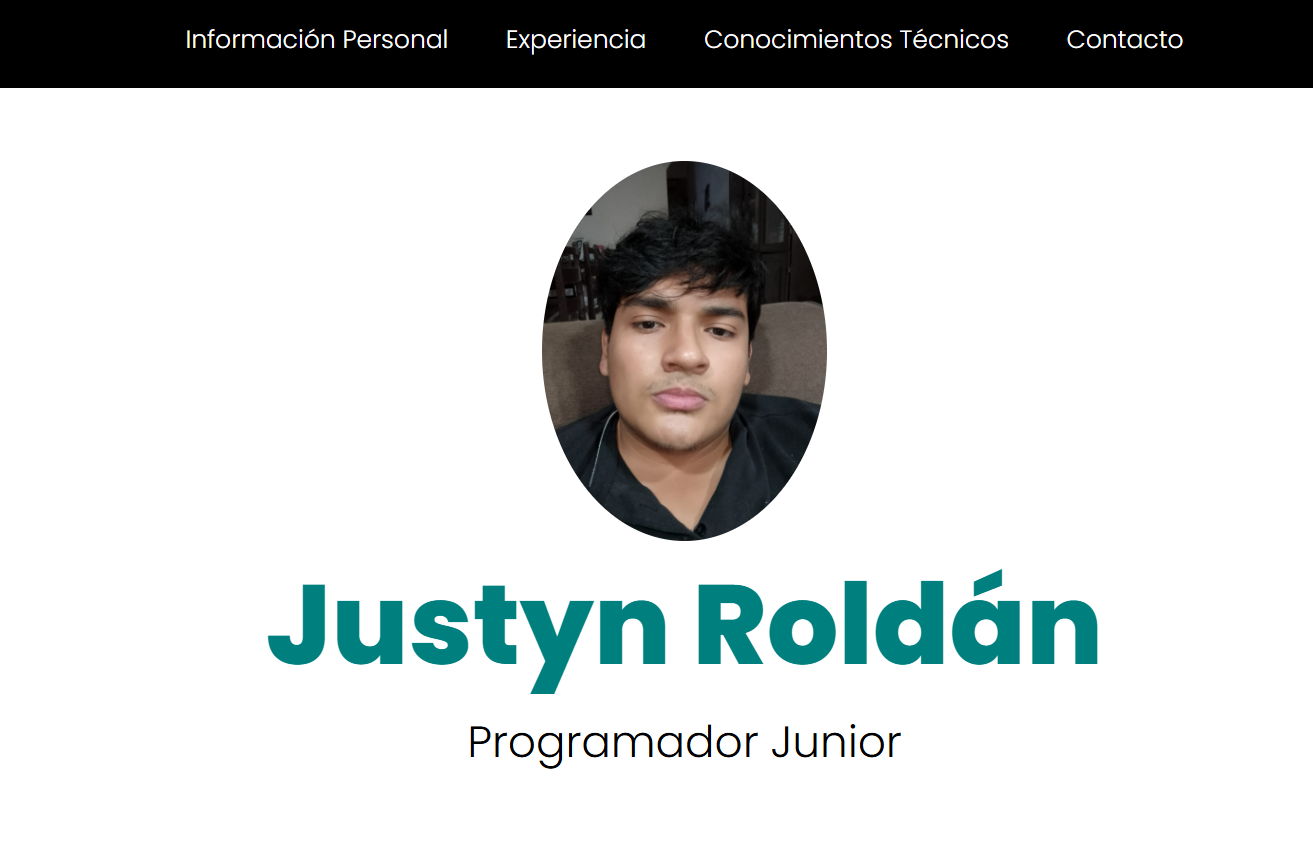
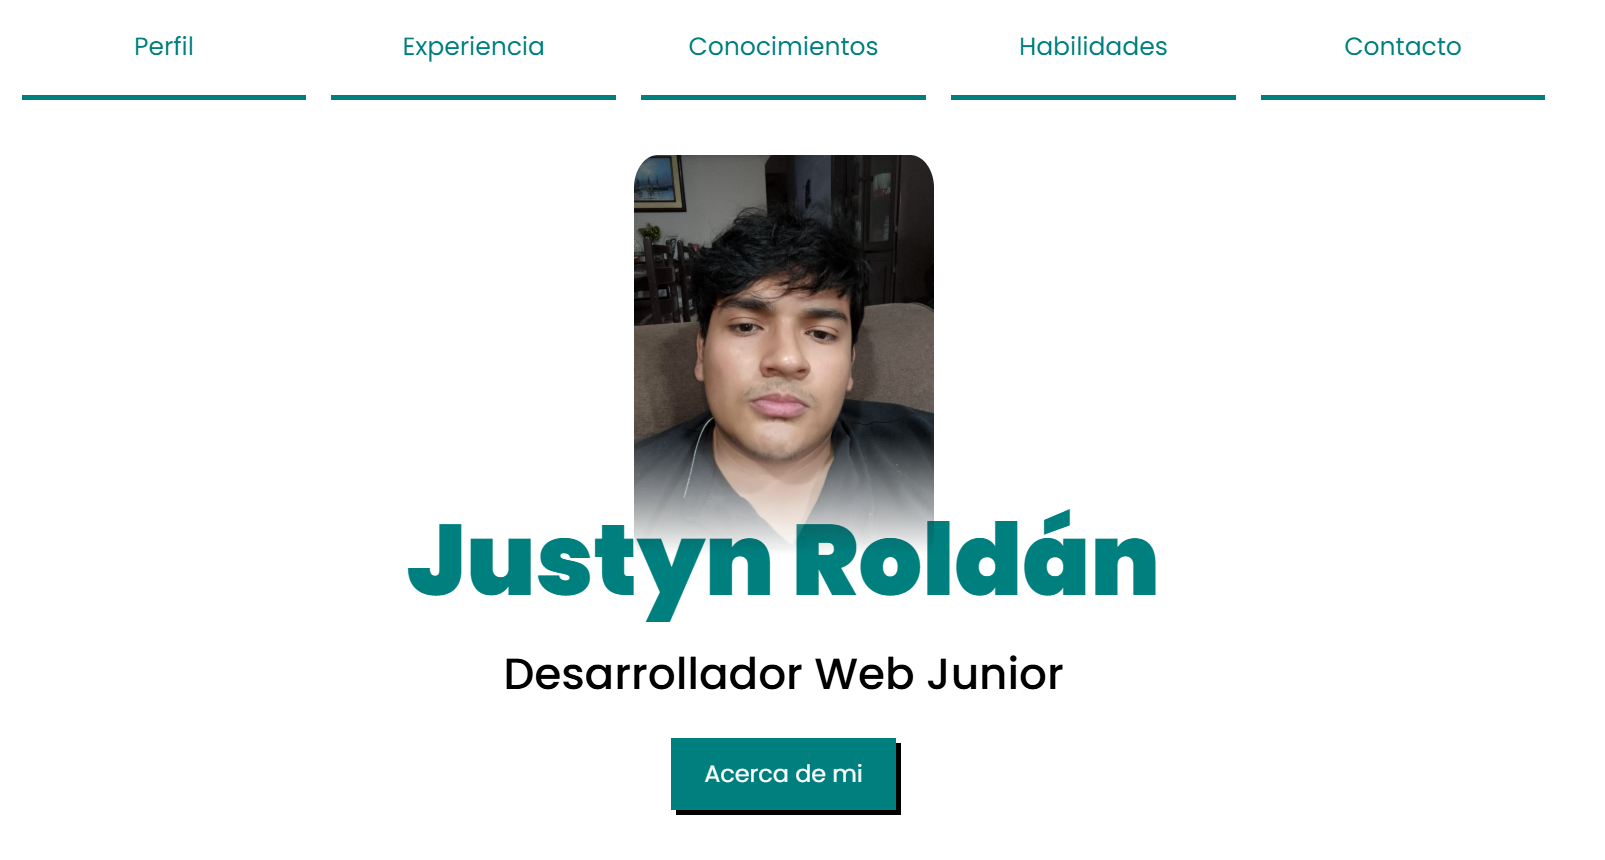
Mejoras en el diseño

Changed region(s): [[0.1874, 0.1537, 0.8431, 0.8298], [0.0, 0.0, 1.0, 0.1229], [0.3435, 0.8605, 0.687, 0.9527]]

diff --git a/index.html b/index.html
@@ -10,7 +10,7 @@
     <title>Curriculum Vitae</title>
     <link rel="stylesheet" href="styles.css">
     <link rel="stylesheet" href="foto-perfil.css">
-    <link rel="stylesheet" href="https://cdn.jsdelivr.net/npm/boxicons@2.1.4/css/boxicons.min.css" rel="stylesheet">>
+    <link rel="stylesheet" href="https://cdn.jsdelivr.net/npm/boxicons@2.1.4/css/boxicons.min.css" rel="stylesheet">
     <link href="https://cdnjs.cloudflare.com/ajax/libs/font-awesome/6.0.0-beta3/css/all.min.css" rel="stylesheet">
 </head>
 
@@ -18,10 +18,10 @@
     <header>
         <nav>
             <ul>
-                <li><a href="#informacion-personal">Información Personal</a></li>
+                <li><a href="#informacion-personal">Perfil</a></li>
                 <li><a href="#experiencia">Experiencia</a></li>
-                <li><a href="#conocimientos-tecnicos">Conocimientos Técnicos</a></li>
-                <li><a href="#habilidades-blandas">Habilidades Blandas</a></li>
+                <li><a href="#conocimientos-tecnicos">Conocimientos</a></li>
+                <li><a href="#habilidades-blandas">Habilidades</a></li>
                 <li><a href="#contacto">Contacto</a></li>
             </ul>
         </nav>
@@ -41,7 +41,7 @@
                         <a href="#contacto"><i class="bx bxs-envelope"></i></a>
                     </li>
                     <li>
-                        <a href="#footer"><i class="bx bxs-phone"></i></a>
+                        <a href="tel:+593995699914"><i class="bx bxs-phone"></i></a>
                     </li>
                 </ul>
             </div>
@@ -206,13 +206,6 @@
 
     <footer id="footer">
         <p>&copy; 2024 Justyn Roldán. Todos los derechos reservados.</p>
-        <address>
-            <img src="images/outlook.png" alt=""><a class="contacto-footer"
-                href="mailto:jjroldan@espol.edu.ec">jjroldan@espol.edu.ec</a>
-        </address>
-        <p class="phone">
-            <img src="images/whatsapp.png" alt=""><a href="tel:+593995699914">0995699914</a>
-        </p>
     </footer>
 
 </body>

diff --git a/styles.css b/styles.css
@@ -24,14 +24,6 @@ body {
     padding: 0;
 }
 
-nav {
-    margin: 0;
-    position: fixed;
-    top: 0;
-    width: 100%;
-    z-index: 1000;
-}
-
 h2{
     font-size: clamp(20px, 3vw, 29px);
     font-weight: 700;
@@ -71,7 +63,7 @@ h1 {
 }
 
 .header-content {
-    margin: 90px 0 20px 0;
+    margin: 105px 0 20px 0;
     padding: 20px;
     font-size: 20px;
     display: flex;
@@ -88,25 +80,37 @@ h1 {
 }
 
 nav ul {
-    display: flex;
+    display:flex;
+    flex-direction: row;
     justify-content: center;
-    background-color: rgb(0, 0, 0);
+    background: rgba(255, 255, 255, .4);
+    backdrop-filter: blur(5px);
+    position: fixed;
+    top: 0;
+    gap: 20px;
+    width: 100%;
+    z-index: 1000;
+    padding: 0 150px;
 }
 
 nav ul li {
+    width: 100%;
     text-align: center;
 }
 
 nav ul li a {
+    border-bottom: 4px solid rgb(0, 127, 127);
     display: block;
     font-size: clamp(12px, 2vw, 20px);
-    color: rgb(255, 255, 255);
-    transition: background-color 0.4s ease-in-out;
+    color: rgb(0, 127, 127);
+    transition: 0.4s ease-in-out;
     padding: 23px;
+    font-weight: 400;
 }
 
 nav ul li a:hover {
     background-color: rgb(0, 127, 127);
+    color: #fff;
 }
 
 .info-button {
@@ -370,14 +374,18 @@ footer {
 }
 
 footer img {
-    width: 30px;
-    height: 30px;
+    width: 22px;
+    height: 22px;
 }
 
 footer address,.phone {
     display: flex;
     justify-content: center;
     gap: 20px;
+}
+
+footer p , footer a{
+    font-size: clamp(14px, 2vw, 18px);
 }
 
 .phone a{
@@ -393,10 +401,6 @@ footer address,.phone {
 @media(max-width: 806px){
     h1{
         margin-top: -50px;
-    }
-
-    .header-content {
-        margin-top: 60px;
     }
 
     .info-button {
@@ -439,7 +443,13 @@ footer address,.phone {
 
 }
 
-@media(max-width: 1030px) {
+@media(max-width: 500px){
+    .header-content{
+        margin-top: 85px;
+    }
+}
+
+@media(max-width: 1020px) {
 
     .formacion-academica p{
         max-width: 90%;

diff --git a/foto-perfil.css b/foto-perfil.css
@@ -14,7 +14,7 @@
     filter: grayscale(0%);
     transition: 2s;
     mask-image: linear-gradient(
-        black 80%,
+        black 70%,
         transparent
     );
 }
